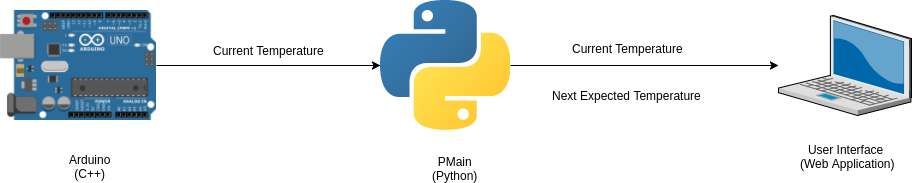
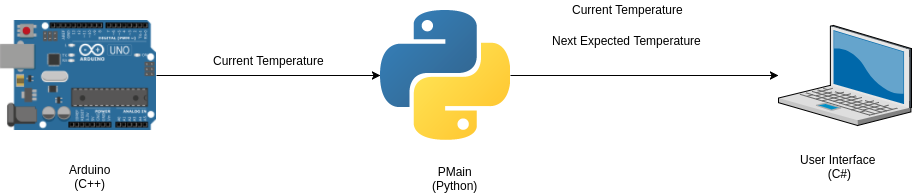
Update deepstream use case docs

diff --git a/docs/source/deepstream/use-case.rst b/docs/source/deepstream/use-case.rst
@@ -9,7 +9,7 @@ with the same API.
 Use Case
 --------
 
-Here are 2 example use cases when using Deepstream or really any type of Message Broker. Let's start with a simple example. 
+Here is an example use case when using Deepstream or really any type of Message Broker. 
 
 Simple Example
 **************
@@ -17,14 +17,15 @@ Simple Example
 Picture an Arduino with a temperature sensor, it has a .ino file written in C++ that reads the current temperature and then needs to send
 that data to a Python process, let's call it PMain. PMain will receive that current temperature and compute an expected temperature for the next
 reading through some magical algorithm. PMain will run on it's own computer separate from the ardunio. Once the expected temperature is computed, PMain needs to send both the current and next expected temperature
-to a User Interface (Web Application) to display the data to the user. Figure 2 Illustrates the entire program layout.
+to a User Interface to display the data to the user. Let's assume the User Interface is a native desktop application written using C# and will
+run on it's own laptop. Figure 2 Illustrates the entire program layout.
 
 .. image:: ../img/Use-Case-Simple-Example.png
 
 **Figure 2. The layout of our 3 part program for our simple example.**
 
 So here's the big question... How are we suppose to transfer data from a C++ program to Python and then to a
-Web Application?
+User Interface?
 
 You may jump to the answer that we can execute c++ inside a python program however that won't work because remember, the arduino and python programs
 are running on their own boards.
@@ -32,14 +33,23 @@ are running on their own boards.
 As you can see, since every part of the entire program is separated physically from each other then this narrows down the solutions to our probelm.
 
 Really, the only solution would be to transfer data over the network. Therefore, relying on a network connection to handle your data being transfered
-from your Arduino to PMain. However, this means deciding what network protocol to use e.g. TCP or UDP. TCP is good if you need to make
-sure your data gets sent from the Arduino to PMain, however, the messages may not be delivered very quickly with all the protocol overhead
+from your Arduino to PMain and then to the User Interface. However, this means deciding what network protocol to use e.g. TCP or UDP.
+TCP is good if you need to make sure your data gets sent from the Arduino to PMain, however, the messages may not be delivered very quickly with all the protocol overhead
 with making it fail-safe. UDP is good choice if you don't care about losing data packets and just want it to arrive as quickly as possible.
 There is also HTTP and `MQTT <http://mqtt.org/>`_ as a network protocol however the one important thing to keep in mind 
-is: How will you send your data from PMain to the Web Application?
+is: Once you get your data sent to PMain then how will you send it to the User Interface?
 
 You see, we need to think about all of the moving parts in our example. Even though it's titled as a Simple Example it really is not. You may
 think it's as easy as 1-2-3 but then you get hit with a baseball right to the gut. Welcome to the world of Titan Rover where things are much
-more complicated then they seem. 
+more complicated then they seem.
+
+Coming off our tangent, let's decide what to do for our network requirements. Let's use TCP for sending data from the Arduino to PMain since
+we want to make sure we get every temperature reading. Then, we will use UDP for sending the computed and recorded data from PMain to the 
+User Interface. Figure 3 Illustrates the updated program layout.
+
+
+.. image:: ../img/Use-Case-Simple-Example-With-Network.png
+
+**Figure 3. The updated layout of our 3 part program.**
 
  
